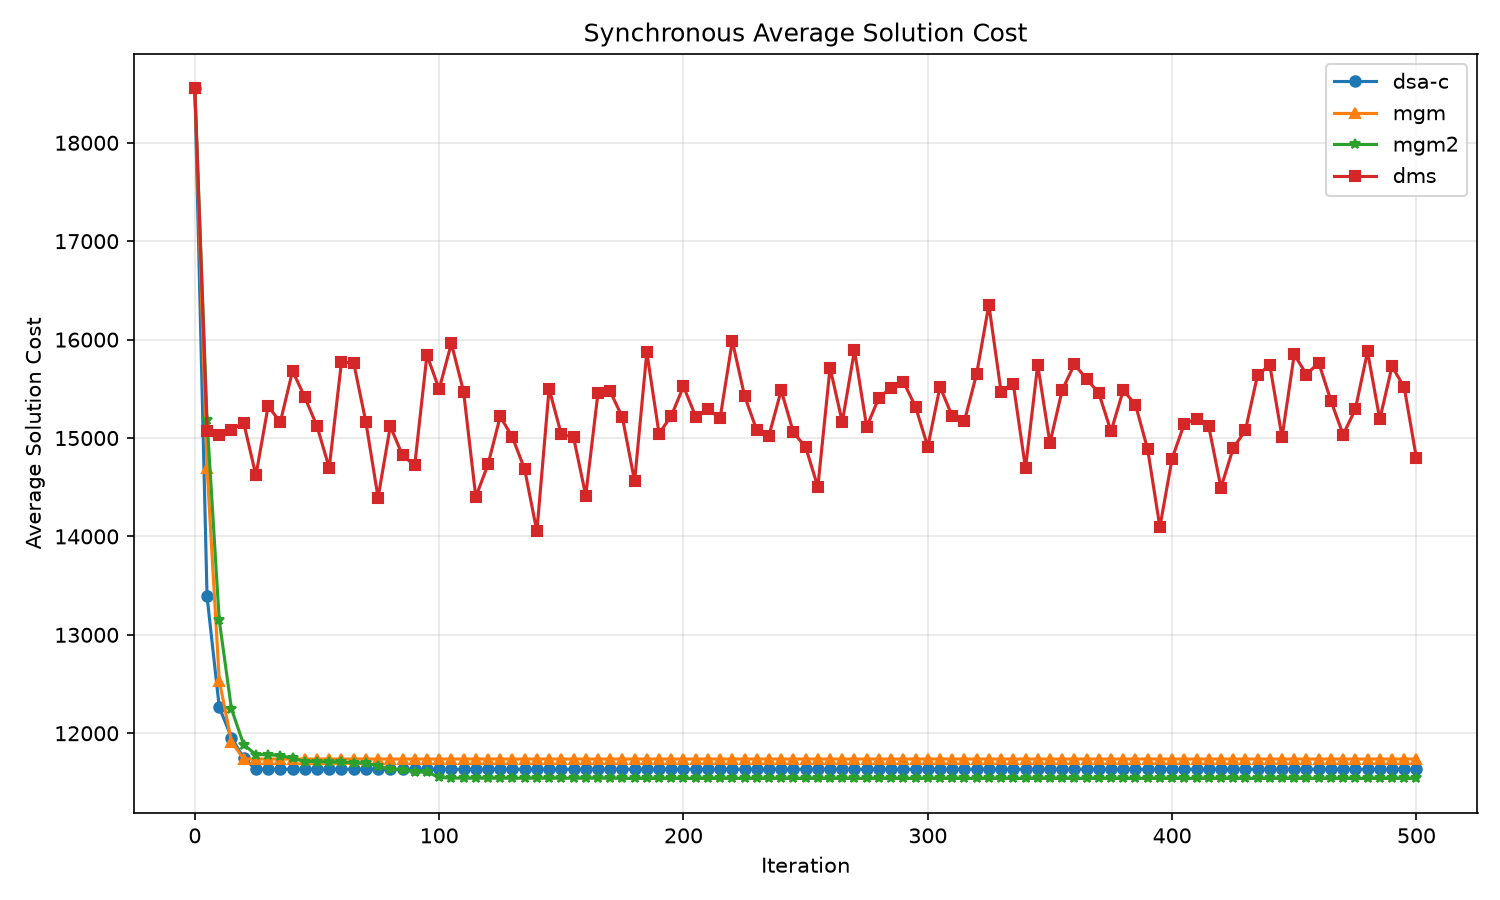
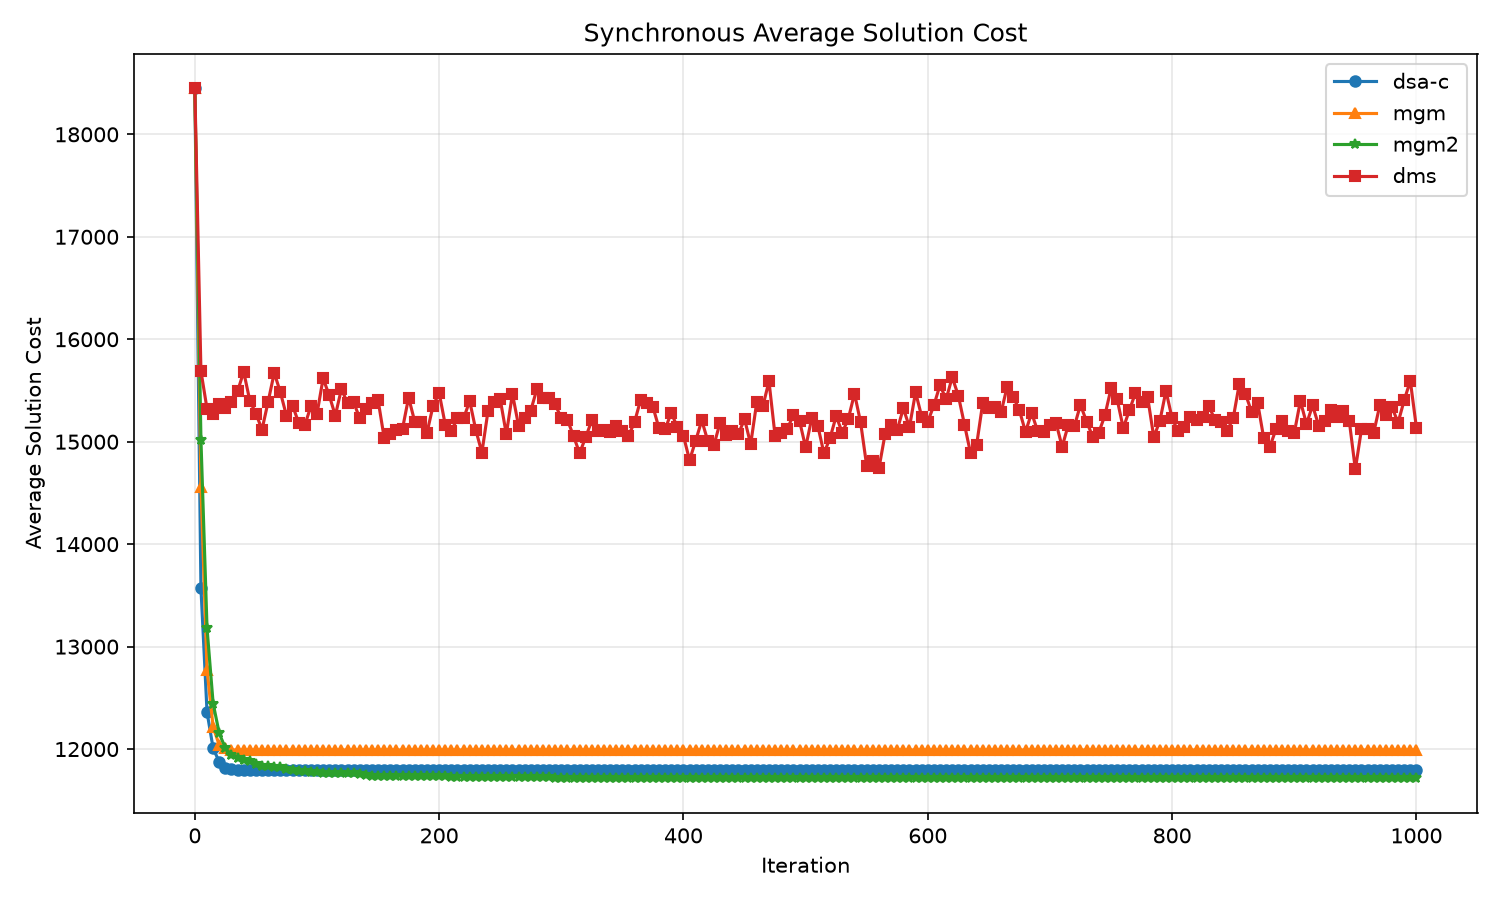
Use the full 50/50/1000 results in the README
Replace the report data and backend graphs with the actual full experiment
(50 problems, 50 agents, 1000 iterations) from results/: updated sync/async
result tables (final/drop/best-seen/messages/runtime), prose numbers, summary,
and reproduction notes. DMS's async best-seen (38.7%) is the lowest cost
reached by any method; measured full-run time ~6.5 h (sync DMS ~5.4 h).

diff --git a/README.md b/README.md
@@ -11,11 +11,11 @@ also validates the implementation against a reference implementation on identica
 problem instances.
 
 > **TL;DR.** The three *local-search* algorithms (DSA‑C, MGM, MGM‑2) converge
-> within ~30 iterations to a good local optimum (≈ 37 % cost reduction at 50
+> within ~30 iterations to a good local optimum (≈ 35–37 % cost reduction at 50
 > agents). The *inference* algorithm (DMS / damped min‑sum) **oscillates for the
 > entire run and never settles** — because the random DCOP factor graphs are
 > densely cyclic, where belief propagation has no convergence guarantee. Crucially,
-> DMS's *best-seen* assignment is competitive (≈ 34–38 %); it simply drifts away
+> DMS's *best-seen* assignment is competitive (≈ 36–39 %); it simply drifts away
 > from it. On identical instances our backend matches the reference implementation
 > (MGM and DMS bit‑for‑bit; DSA‑C and MGM‑2 within stochastic noise).
 
@@ -78,12 +78,12 @@ The graphs in this report come from the **full simulation run**:
 | Domain size | 10 |
 | Constraint probability `p` | 0.30 (≈ 367 edges, mean degree ≈ 15) |
 | Constraint cost range | 1 – 100 |
-| Iterations / async steps | 500 |
+| Iterations / async steps | 1000 |
 | DSA‑C move probability | 0.70 |
 | DMS damping λ | 0.90 |
-| Mean initial cost | 18,552 |
+| Mean initial cost | 18,447 |
 
-Each curve is the **average global cost over the 5 problems** at each iteration.
+Each curve is the **average global cost over the 50 problems** at each iteration.
 
 ---
 
@@ -183,19 +183,19 @@ step limit. Because thread scheduling is non‑deterministic, async curves are
 ![Synchronous average cost](report/figures/backend_sync.png)
 
 **What the graph shows.** The three local‑search algorithms (blue = DSA‑C ●,
-orange = MGM ▲, green = MGM‑2 ★) collapse from 18,552 to ≈ 11,500–11,750 within
-**~30 iterations** and then stay perfectly flat for the remaining ~470 iterations.
-DMS (red ■) drops less and **oscillates between ~14,000 and ~16,300 for the entire
-run** — it never converges.
+orange = MGM ▲, green = MGM‑2 ★) collapse from 18,447 to ≈ 11,700–12,000 within
+**~30 iterations** and then stay essentially flat for the remaining ~970
+iterations. DMS (red ■) drops less and **oscillates around ~14,800–15,700 for the
+entire run** — it never converges.
 
-**Average results over the 5 problems (synchronous, 500 iterations):**
+**Average results over the 50 problems (synchronous, 1000 iterations):**
 
 | algorithm | final cost | drop | best‑seen | messages | runtime |
 |---|--:|--:|--:|--:|--:|
-| dsa‑c | 11,634 | 37.3 % | 11,634 | 361,200 | 34 s |
-| mgm   | 11,738 | 36.7 % | 11,738 | 722,400 | 34 s |
-| mgm2  | 11,541 | **37.8 %** | 11,541 | 1,083,600 | 70 s |
-| dms   | 14,795 | 20.2 % | **12,201 (34.2 %)** | 722,400 | 1,014 s |
+| dsa‑c | 11,797 | 36.0 % | 11,797 | 731,400 | 10.6 min |
+| mgm   | 11,991 | 35.0 % | 11,991 | 1,462,800 | 10.6 min |
+| mgm2  | 11,714 | **36.5 %** | 11,714 | 2,194,200 | 22.5 min |
+| dms   | 15,137 | 17.9 % | **11,729 (36.4 %)** | 1,462,800 | 324.6 min |
 
 **Why we see this.**
 
@@ -204,17 +204,17 @@ run** — it never converges.
   iterations add nothing. MGM‑2 reaches the lowest plateau because its pair moves
   escape optima the single‑agent methods cannot.
 - **DMS oscillates and never settles** — the loopy‑graph behaviour of §3.4. But
-  its *best‑seen* cost (12,201, a 34.2 % reduction) is close to local search: DMS
-  *does* find good assignments, it just drifts away from them (see §7).
+  its *best‑seen* cost (11,729, a 36.4 % reduction) is on par with local search:
+  DMS *does* find good assignments, it just drifts away from them (see §7).
 - **Communication cost** scales with the message pattern: DSA‑C sends one value
   message per neighbour (cheapest), MGM adds gains (2×), DMS exchanges Q/R vectors,
   and MGM‑2's propose/accept handshake is the most expensive (3×). Because the
   synchronous simulator runs the full iteration count (no early stop), these scale
   linearly with iterations.
-- **Runtime** is dominated by the synchronous DMS (1,014 s). It is the only
-  pure‑Python algorithm; the async DMS (and the reference) are numpy‑vectorised and
-  ~30× faster. This is why a full 50‑agent / 1000‑iteration run currently takes
-  ~7.4 h — see §10.
+- **Runtime** is dominated by the synchronous DMS (**324.6 min ≈ 5.4 h** of the
+  ~6.5 h total). It is the only pure‑Python algorithm; the async DMS (and the
+  reference) are numpy‑vectorised and ~30× faster. Vectorising the sync DMS would
+  bring the whole run to ~1.5 h — see §10.
 
 ---
 
@@ -222,23 +222,23 @@ run** — it never converges.
 
 ![Asynchronous average cost](report/figures/backend_async.png)
 
-**Average results over the 5 problems (asynchronous, 500 steps):**
+**Average results over the 50 problems (asynchronous, 1000 steps):**
 
 | algorithm | final cost | drop | best‑seen | runtime |
 |---|--:|--:|--:|--:|
-| dsa‑c | 11,762 | 36.6 % | 11,762 | 11 s |
-| mgm   | 11,784 | 36.5 % | 11,784 | 8 s |
-| mgm2  | 11,713 | 36.9 % | 11,488 | 10 s |
-| dms   | 14,129 | 23.8 % | **11,566 (37.7 %)** | 36 s |
+| dsa‑c | 11,928 | 35.3 % | 11,928 | 3.8 min |
+| mgm   | 12,022 | 34.8 % | 12,022 | 2.4 min |
+| mgm2  | 11,647 | 36.9 % | 11,358 (38.4 %) | 3.4 min |
+| dms   | 13,906 | 24.6 % | **11,310 (38.7 %)** | 11.4 min |
 
 **Why we see this.** The qualitative picture matches the synchronous case — local
 search converges fast and low, DMS oscillates high — confirming the behaviour is a
 property of the *algorithms*, not the execution model. The async curves are
 **jaggier**, because each agent acts on whatever messages have arrived so far (not
 a clean global snapshot) and thread timing varies run to run. DMS is the noisiest
-of all; its *best‑seen* assignment (11,566, 37.7 %) actually **matches local
-search**, again showing that DMS's poor *final* number is an artefact of its
-oscillation, not of solution quality.
+of all, yet its *best‑seen* assignment (11,310, **38.7 % — the lowest cost reached
+by any method in the whole study**) again shows that DMS's poor *final* number is
+an artefact of its oscillation, not of solution quality.
 
 > **Engineering note.** Reaching this required rewriting the async simulator to a
 > true per‑agent‑thread design (each agent owns its state; no global lock). An
@@ -296,9 +296,10 @@ footing the two implementations are equivalent.**
 
 ## 9. Summary
 
-- **Algorithm ranking on dense random DCOPs (50 agents):** MGM‑2 ≈ DSA‑C ≈ MGM
-  (≈ 37 % reduction, converged by ~30 iterations) ≫ DMS by *final* cost (20–24 %,
-  oscillating) — though DMS's *best‑seen* is competitive (~34–38 %).
+- **Algorithm ranking on dense random DCOPs (50 agents, 50 problems):**
+  MGM‑2 ≈ DSA‑C ≈ MGM (≈ 35–37 % reduction, converged by ~30 iterations) ≫ DMS by
+  *final* cost (18–25 %, oscillating) — though DMS's *best‑seen* is the strongest of
+  all (up to 38.7 %).
 - **MGM** is the smoothest and stable but most easily trapped; **MGM‑2** reaches
   the lowest cost but is the most communication‑hungry; **DSA‑C** is a good cheap
   middle ground.
@@ -314,26 +315,21 @@ footing the two implementations are equivalent.**
 
 ## 10. Reproducing the experiments
 
-The full simulation in this report (5 problems, 50 agents, 500 iterations):
-
-```bash
-python main.py --mode full --problems 5 --agents 50 --iterations 500 \
-  --algorithms dsa-c,mgm,mgm2,dms --simulators sync,async \
-  --output-dir results
-```
-
-Default full experiment (50 problems, 50 agents, 1000 iterations):
+The full simulation in this report is the default experiment — **50 problems, 50
+agents, 1000 iterations**, both simulators, all four algorithms:
 
 ```bash
 python main.py
 ```
 
-Useful flags: `--constraint-probability`, `--seed`, `--no-progress`, `--no-plots`,
-`--output-dir`. Outputs are average‑cost CSVs and the PNG graphs shown above.
+Outputs (average‑cost CSVs and the PNG graphs shown above) are written to
+`results/`. Useful flags: `--problems`, `--agents`, `--iterations`,
+`--constraint-probability`, `--seed`, `--no-progress`, `--no-plots`,
+`--output-dir`.
 
-> Note: the default 50/50/1000 run currently takes ~7.4 h, dominated by the
-> pure‑Python synchronous DMS; vectorising it with numpy (as the async DMS already
-> is) would bring it to ~1.5 h.
+> Note: this full run took **~6.5 h**, almost entirely the pure‑Python synchronous
+> DMS (~5.4 h); vectorising it with numpy (as the async DMS already is) would bring
+> the whole run to ~1.5 h.
 
 ### Project layout
 
